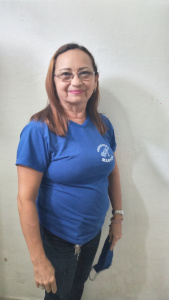
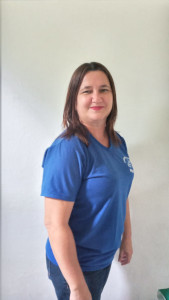
add new teacher

diff --git a/index.html b/index.html
@@ -85,6 +85,7 @@
         <div class="info-img">
             <img src="assets/imagens/Mathematics-bro.png" alt="">
         </div>
+
         <div class="info mb">
             <h3>Metodologia</h3>
             <p>A escola adotou o método construtivista, pois acredita que as atividades de sala de aula devem ter referência a um tema gerador que é utilizado como reforço de conhecimento. Nosso objetivo é uma escola cada vez maior, não só em quantidade de alunos mas principalmente no aprimoramento e capacitação de espaços e pessoas, para daqui a um espaço bem pequeno, estarmos escrevendo novas lindas histórias.</p>
@@ -92,8 +93,8 @@
         <div class="info-img">
             <img src="assets/imagens/Mathematics-cuate.png" alt="">
         </div>
-        </section>
-        <script src="assets/js/script.js"></script>
+    </section>
+    <script src="assets/js/script.js"></script>
 </body>
 
 </html>

diff --git a/paginas/professores.html b/paginas/professores.html
@@ -74,9 +74,9 @@
                 <img src="../assets/imagens/p4.jpg" alt="">
             </div>
             <div class="professor-info">
-                <p>Professora Socorro</p>
+                <p>Professora Márcia</p>
                 <p>Formação: Pedagogia</p>
-                <p>Tempo de atuação: 20 anos</p>
+                <p>Tempo de atuação: 18 anos</p>
             </div>
         </div>
         <div class="professor-container">
